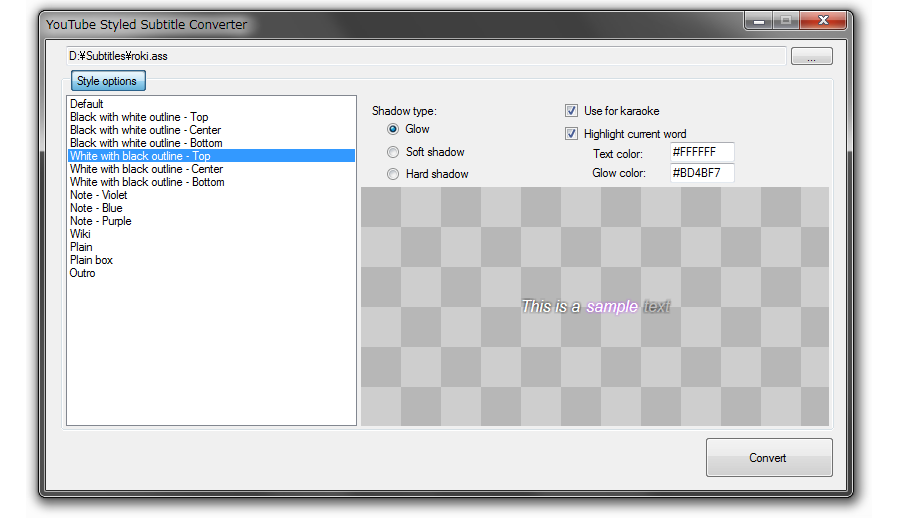
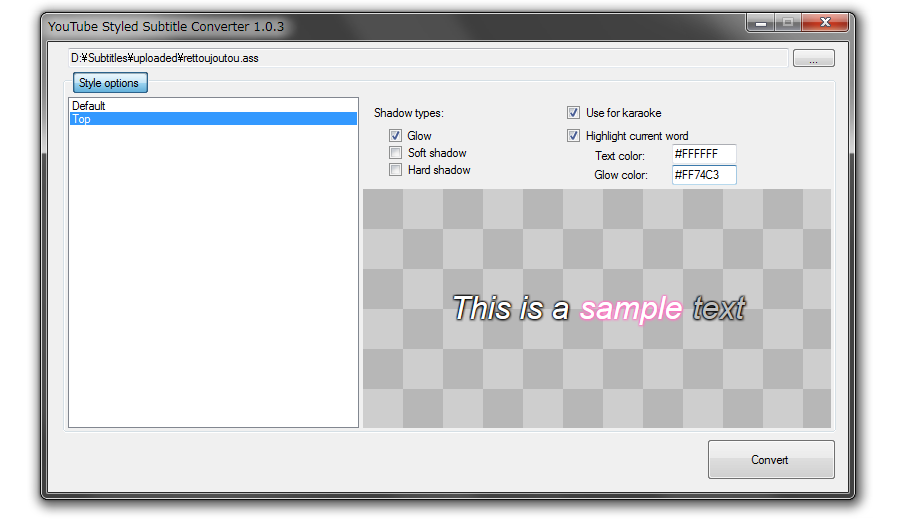
Update readme and images

Changed region(s): [[0.0312, 0.0, 0.9666, 0.9884], [0.6236, 0.1853, 0.8107, 0.3707], [0.4989, 0.556, 0.8419, 0.6178]]

diff --git a/README.md b/README.md
@@ -25,7 +25,7 @@ The program tries to approximate the look of the Aegisub subtitles as closely as
 
 ![Outlines](https://raw.githubusercontent.com/arcusmaximus/YTSubConverter/master/images/outlines.png)
 
-You'll notice that each .ass shadow can turn into one of three different YouTube shadow types: soft shadow, hard shadow and glow (same as outline). You can configure the shadow type in the conversion UI. This is also where you can configure current word highlighting for karaoke ([example](https://www.youtube.com/watch?v=il4cAeVzZwI)).
+You'll notice that each .ass shadow can turn into one of three different YouTube shadow types: soft shadow, hard shadow and glow (same as outline). You can even combine multiple shadow types if you want - just choose from the checkboxes in the conversion UI. This is also where you can configure current word highlighting for karaoke ([example](https://www.youtube.com/watch?v=il4cAeVzZwI)).
 
 ![Style options](https://raw.githubusercontent.com/arcusmaximus/YTSubConverter/master/images/style-options.png)
 
@@ -59,6 +59,7 @@ It also supports the following override tags:
 * `{\2c}` - unsung karaoke text transparency
 * `{\3a}` - background transparency
 * `{\pos}` - position
+* `{\an}` - alignment
 * `{\k}` - karaoke segment duration
 * `{\r}` - reset to current style
 * `{\fad}` - simple fade
